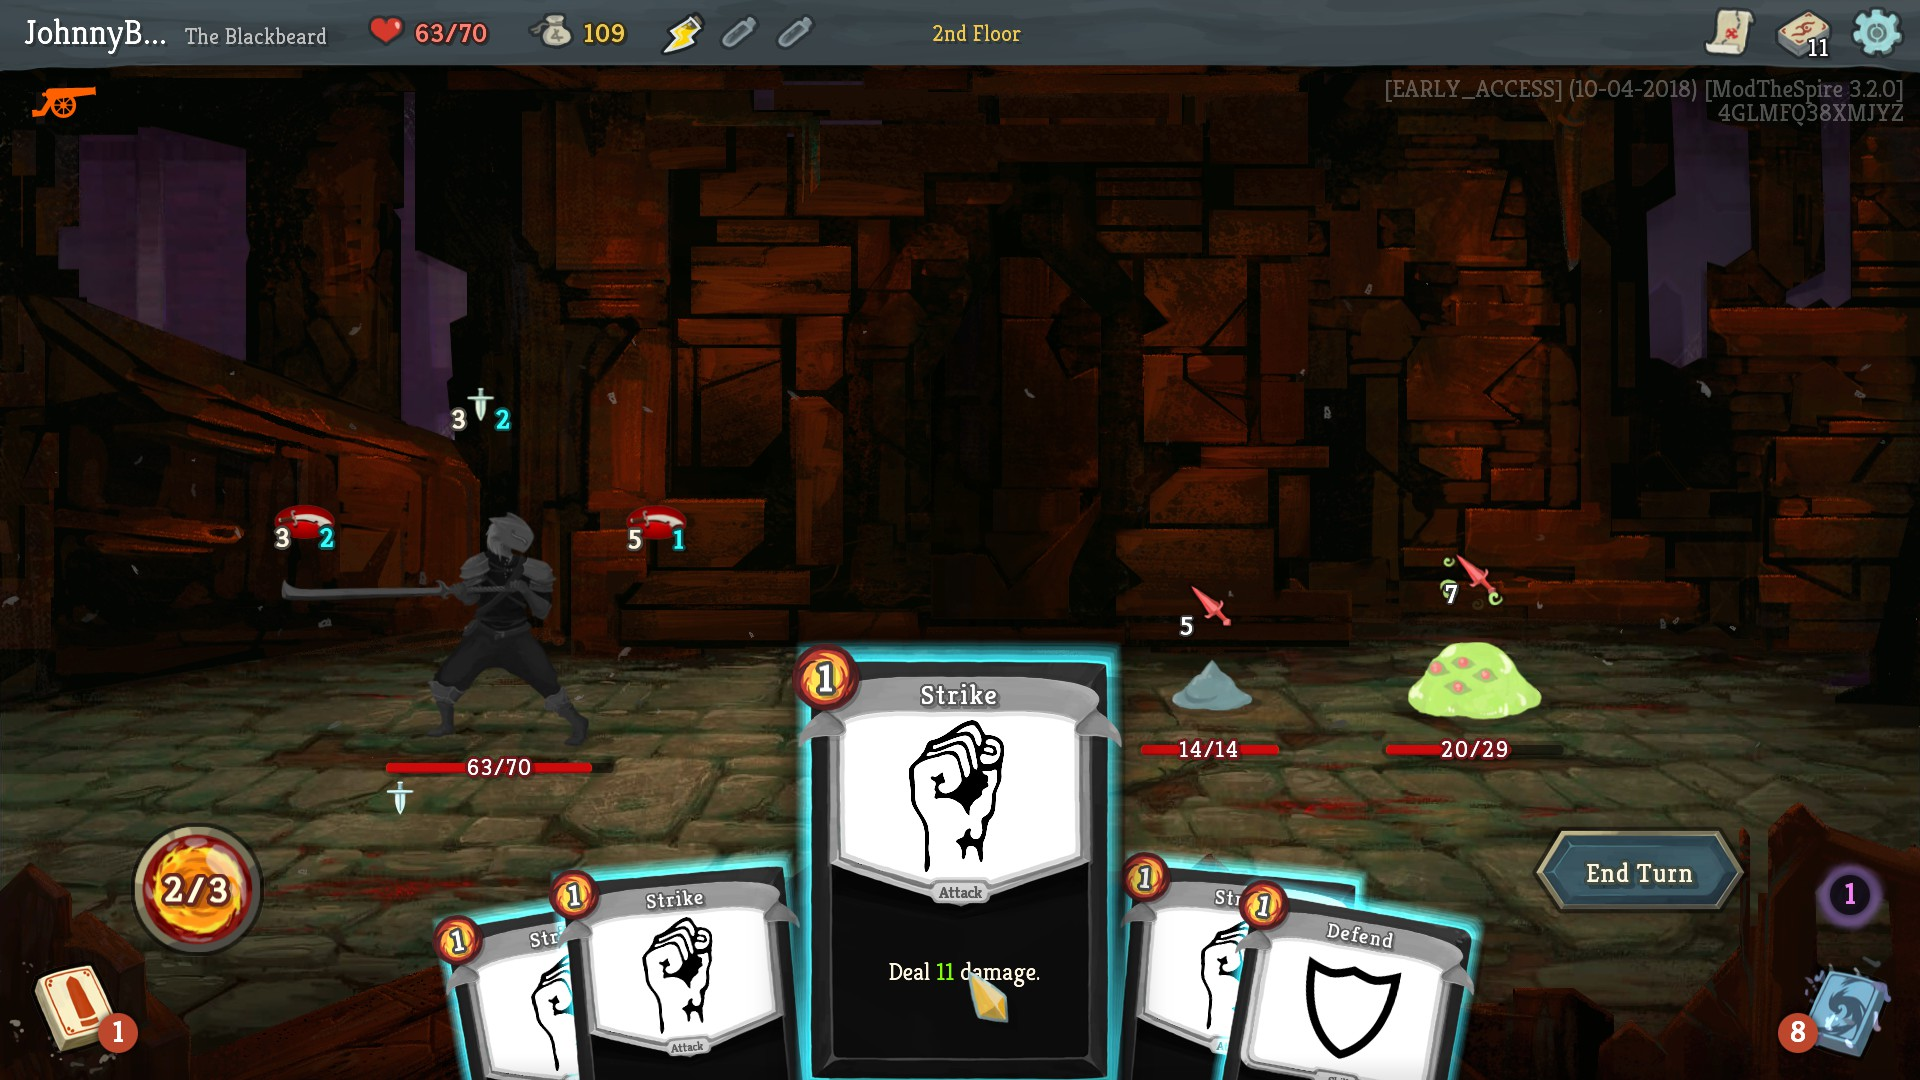
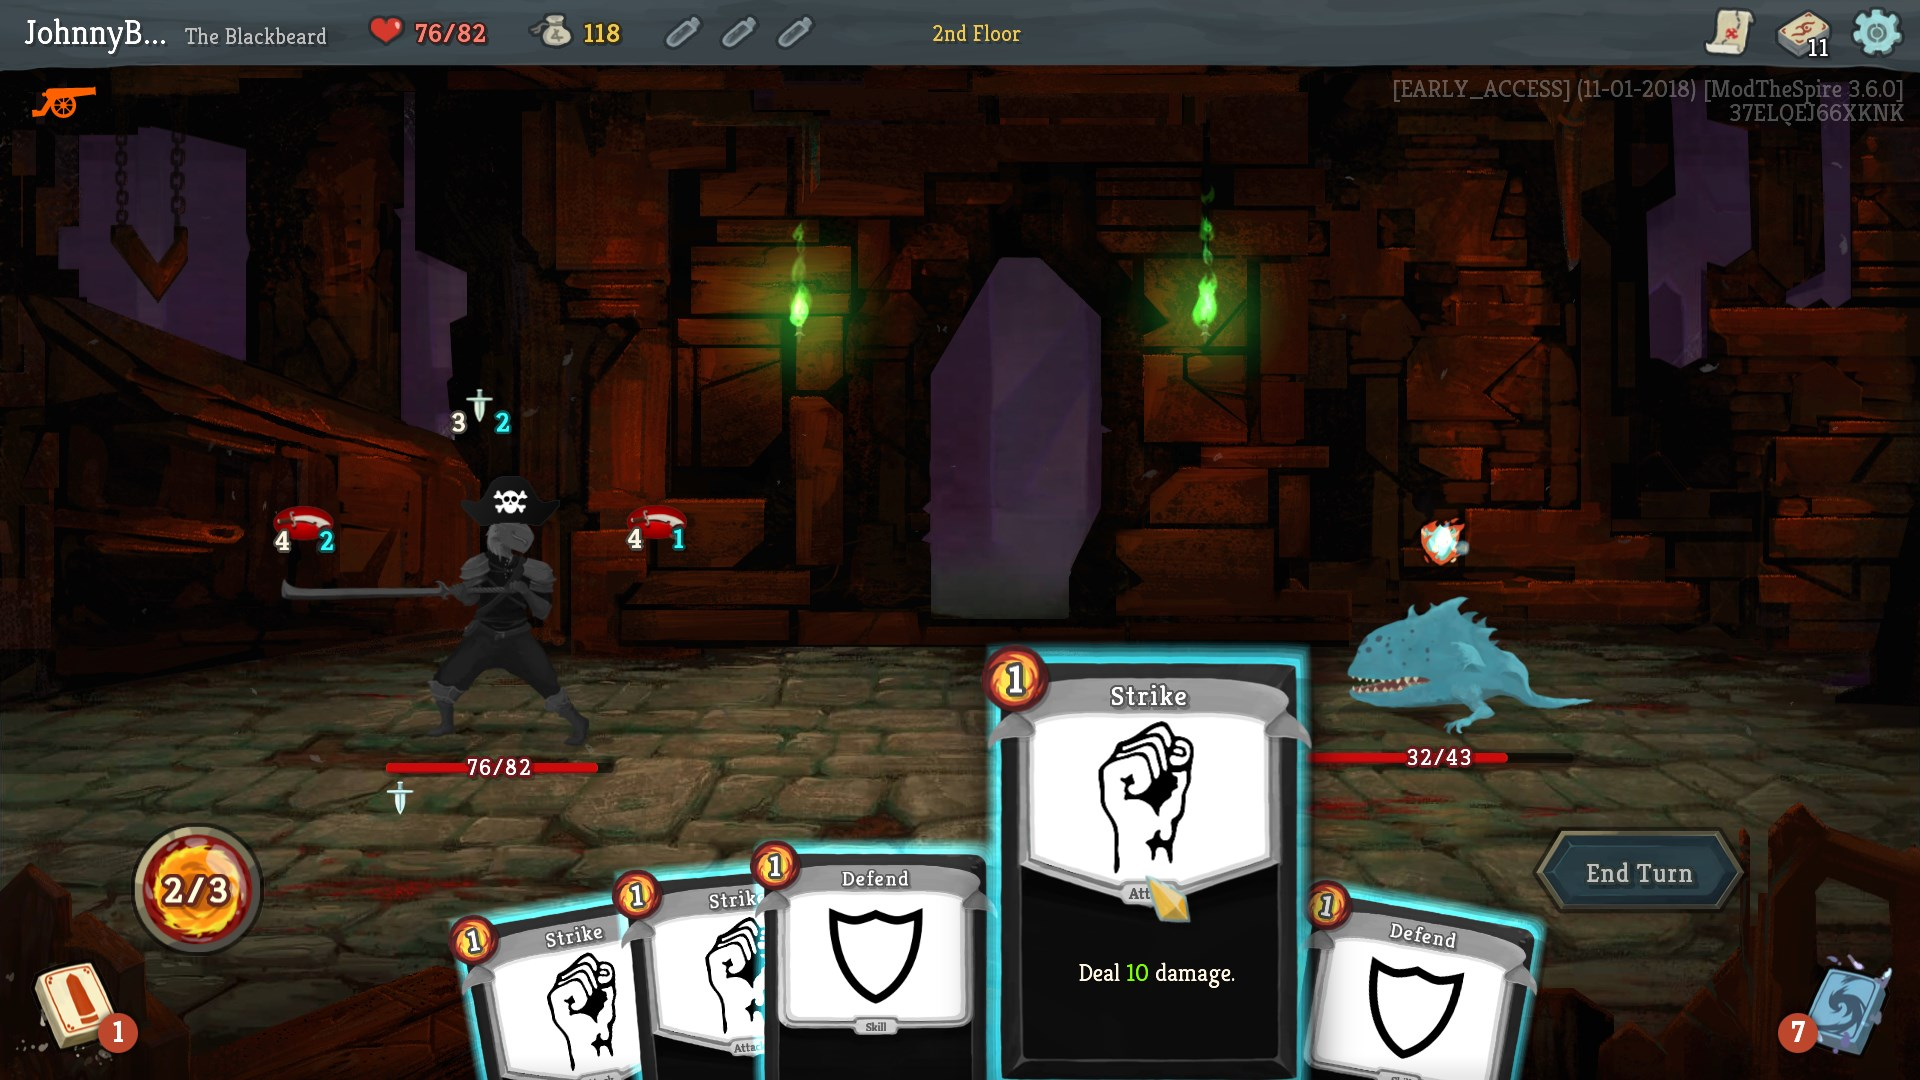
v.1.1.5 (Added Hat to character model)

diff --git a/src/main/java/blackbeard/patches/FontHelperSingleCardViewPatch.java b/src/main/java/blackbeard/patches/FontHelperSingleCardViewPatch.java
@@ -23,7 +23,7 @@ public class FontHelperSingleCardViewPatch {
             prepFontMethod.setAccessible(true);
             smallerSCPCardTitleFontSmall = (BitmapFont) prepFontMethod.invoke(null, 34.0f, true);
         } catch (Exception e) {
-            logger.error("Exception in FontHelperPatch: ", e);
+            logger.error("Exception in FontHelperSingleCardViewPatch: ", e);
         }
     }
 

diff --git a/src/main/java/blackbeard/interfaces/ILongTitle.java b/src/main/java/blackbeard/interfaces/ILongTitle.java
@@ -3,6 +3,6 @@ package blackbeard.interfaces;
 
 public interface ILongTitle {
 
-    /* This interface is used in LongTitlesFixPatch to use smaller font for card's title. */
+    /* This interface is used in LongTitlesFixPatch and LongTitlesSingleCardViewFixPatch to use smaller font for card's title. */
 
 }
